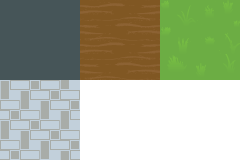
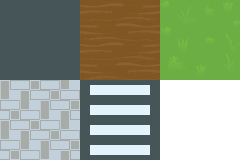
Added crosswalk to tiles spritesheet to fix sorting bug

Changed region(s): [[0.3208, 0.5, 0.6708, 1.0]]

diff --git a/proef-proeven/Screens/LevelCreator.cs b/proef-proeven/Screens/LevelCreator.cs
@@ -4,23 +4,19 @@ using Microsoft.Xna.Framework.Graphics;
 using Microsoft.Xna.Framework.Input;
 using proef_proeven.Components;
 using proef_proeven.Components.Game;
-using proef_proeven.Components.Game.Interfaces;
 using proef_proeven.Components.Level;
 using proef_proeven.Components.LevelCreator;
 using proef_proeven.Components.LevelCreator.Layers;
 using proef_proeven.Components.LoadData;
-using proef_proeven.Components.Util;
 using System;
 using System.Collections.Generic;
 using System.Linq;
-using System.Text;
 
 namespace proef_proeven.Screens
 {
-    class LevelCreator : BaseScreen
+    internal class LevelCreator : BaseScreen
     {
-
-        List<string> layerInfo = new List<string>(){
+        private List<string> layerInfo = new List<string>(){
             "Background. Use A or D to switch.",
             "Object layer. Use A or D to switch object. W and S for other state.",
             "Player layer. Use W A S D to change the start direction.",
@@ -30,11 +26,11 @@ namespace proef_proeven.Screens
             "new layer"
         };
 
-        int curLayer = 0;
+        private int curLayer = 0;
 
-        int levelID;
+        private int levelID;
 
-        List<BaseLayer> layers;
+        private List<BaseLayer> layers;
 
         public LevelCreator(int levelID)
         {
@@ -47,14 +43,14 @@ namespace proef_proeven.Screens
             layers.Add(new PlayerLayer());
             layers.Add(new MovementLayer());
             layers.Add(new WinTileLayer());
-            layers.Add(new BoundingboxEditor());
             layers.Add(new DecorationLayer());
+            layers.Add(new BoundingboxEditor());
             layers[0].ChangeActive(true);
         }
 
         public override void LoadContent(ContentManager content)
         {
-            foreach(BaseLayer bl in layers)
+            foreach (BaseLayer bl in layers)
             {
                 bl.LoadContent(content);
             }
@@ -62,7 +58,7 @@ namespace proef_proeven.Screens
             LevelLoader loader = new LevelLoader(levelID);
             loader.Load();
 
-            if(loader.LevelLoaded)
+            if (loader.LevelLoaded)
             {
                 foreach (BaseLayer bl in layers)
                 {
@@ -70,7 +66,6 @@ namespace proef_proeven.Screens
                 }
             }
 
-           
             base.LoadContent(content);
         }
 
@@ -102,11 +97,11 @@ namespace proef_proeven.Screens
                 {
                     lvl.moveTiles.Add((o as WinTile).Info);
                 }
-                else if(o is Decoration)
+                else if (o is Decoration)
                 {
                     lvl.decoration.Add((o as Decoration).Info);
                 }
-                else if(o is GridTileInfo)
+                else if (o is GridTileInfo)
                 {
                     lvl.Grid.Add((o as GridTileInfo));
                 }
@@ -119,16 +114,15 @@ namespace proef_proeven.Screens
         {
             ScreenManager.Instance.SetScreen(new GameScreen(GetLevelFormat()));
         }
-        
+
         public List<object> AllLayerObjects()
         {
             List<object> all = new List<object>();
 
-            foreach(BaseLayer bl in layers)
+            foreach (BaseLayer bl in layers)
             {
                 all.AddRange(bl.getObjects());
             }
-
 
             return all;
         }
@@ -176,11 +170,11 @@ namespace proef_proeven.Screens
 
         public override void Draw(SpriteBatch batch)
         {
-            foreach(BaseLayer bl in layers)
+            foreach (BaseLayer bl in layers)
             {
                 bl.Draw(batch);
             }
-           
+
             Game1.Instance.fontRenderer.DrawText(batch, new Vector2(5, 5), layerInfo[curLayer], Color.Black);
             Game1.Instance.fontRenderer.DrawText(batch, new Vector2(5, 10 + Game1.Instance.fontRenderer.CharSize.Height), layers[curLayer].LayerInfo, Color.Black);
 
